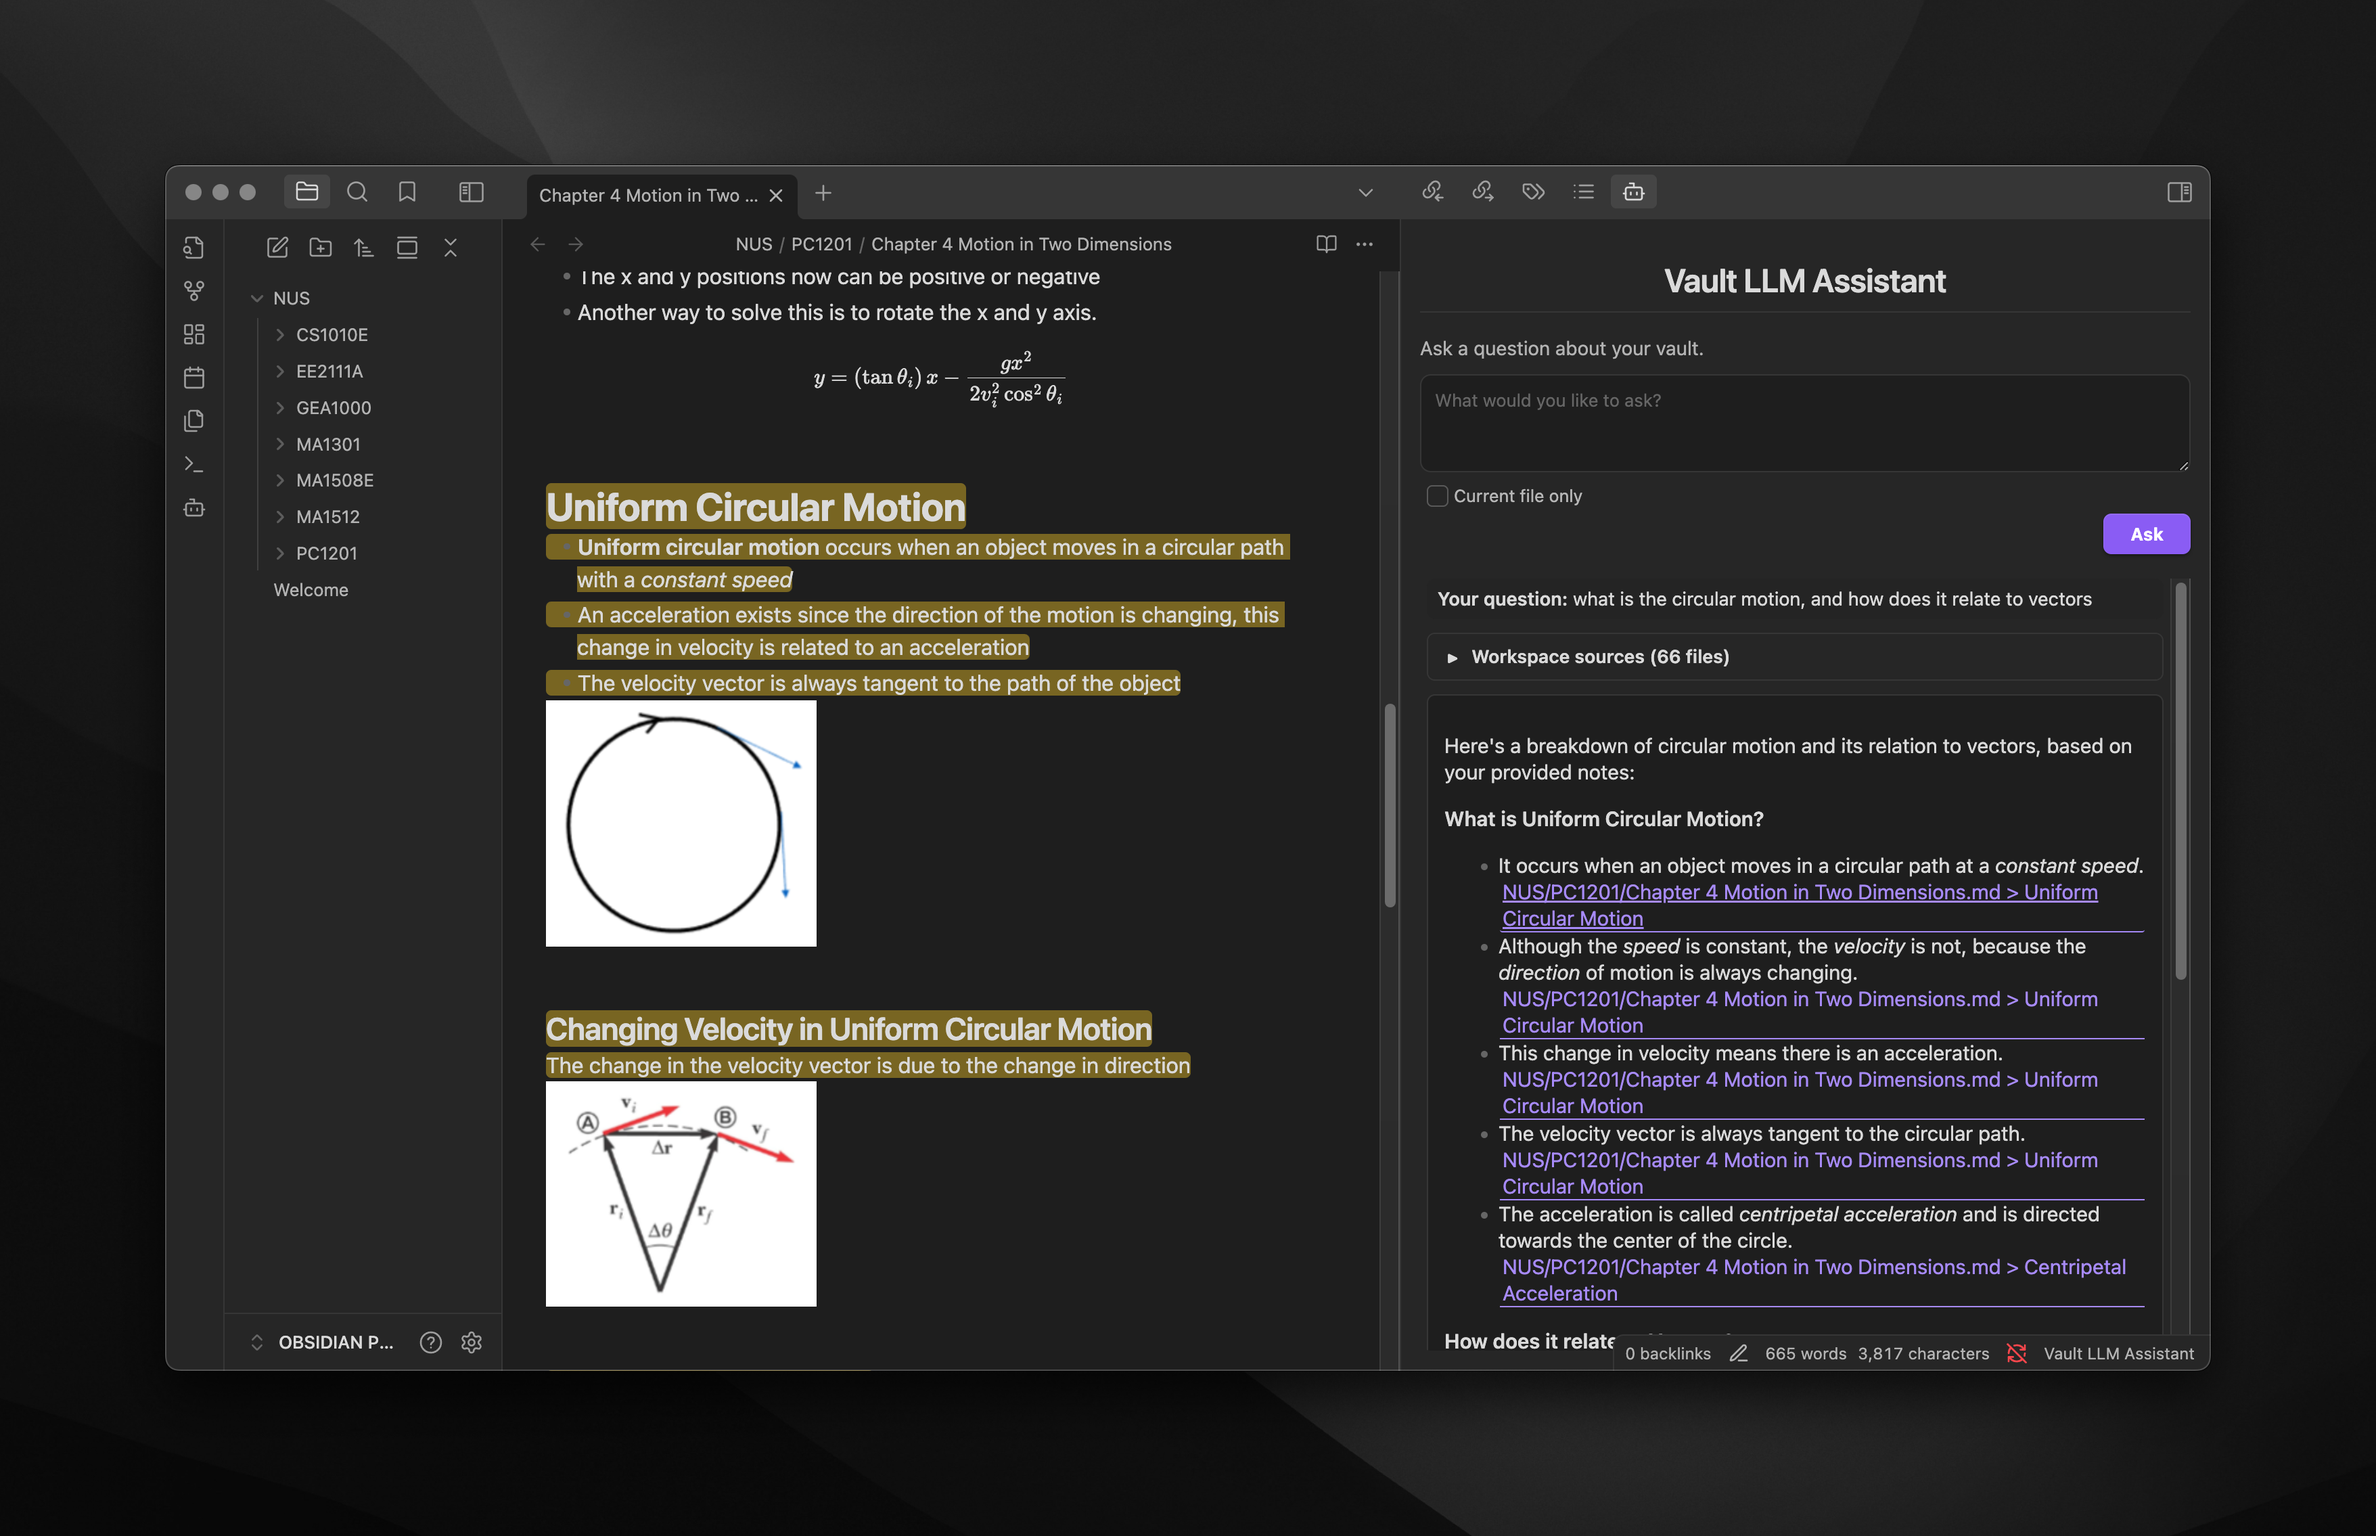
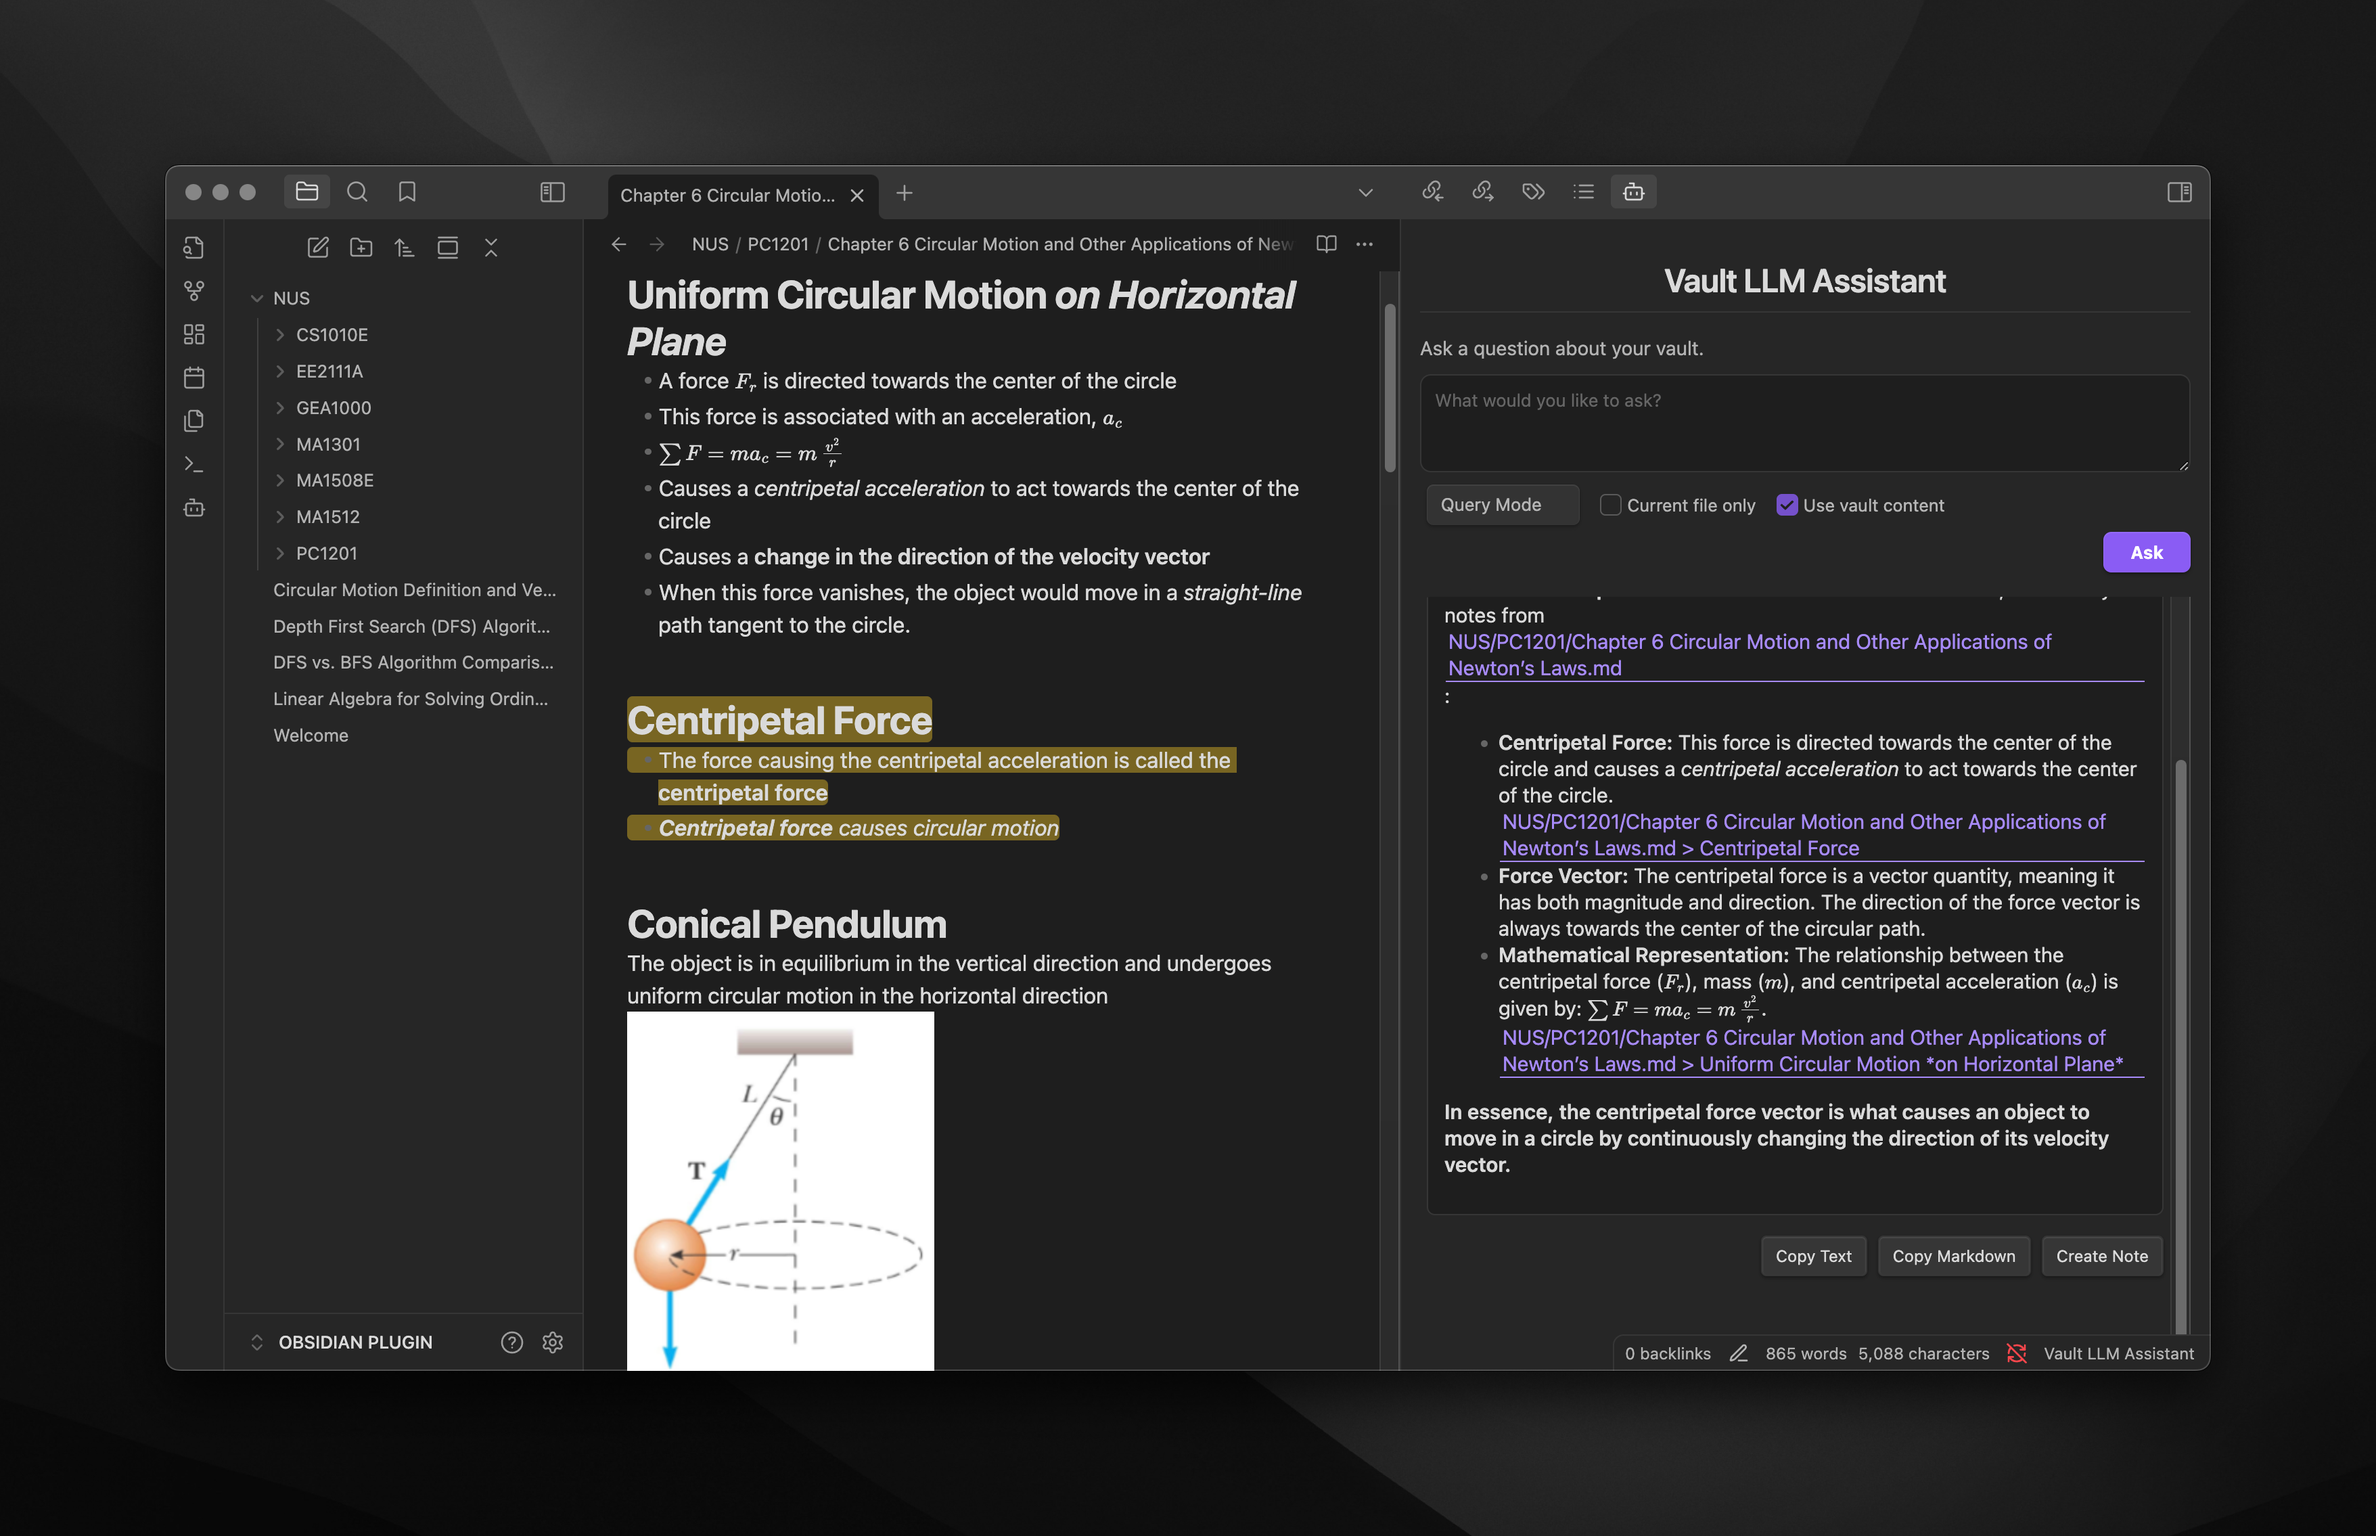
Update Vault LLM Assistant to version 1.0.3, enhancing link formatting in the main.ts file for better visibility and clarity. Removed outdated screenshot and added a new one in README.md. Updated manifest and package files to reflect the new version. Added version mapping in versions.json.

diff --git a/main.ts b/main.ts
@@ -1479,7 +1479,7 @@ class VaultLLMAssistantView extends View {
 			// Fix common malformed link patterns
 			let updatedContent = content;
 
-			// Fix [[path]] format
+			// Fix [[path]] format - show the full path in the link text
 			updatedContent = updatedContent.replace(
 				/\[\[([^\]]+)\]\]/g,
 				(match, path) => {
@@ -1487,7 +1487,7 @@ class VaultLLMAssistantView extends View {
 				}
 			);
 
-			// Fix links separated by commas
+			// Fix links separated by commas - preserve the text
 			updatedContent = updatedContent.replace(
 				/\[([^\]]+)\](?:,\s*|\s*,\s*)/g,
 				(match, path) => {
@@ -1559,6 +1559,11 @@ class VaultLLMAssistantView extends View {
 					// Ensure the link is properly styled and has the correct href
 					link.classList.add("vault-llm-link");
 					link.setAttribute("href", fullPath);
+
+					// Make sure the link text is visible and matches the path
+					if (!link.textContent || link.textContent === "-") {
+						link.textContent = filePath;
+					}
 				}
 			});
 	}

diff --git a/README.md b/README.md
@@ -4,6 +4,8 @@
 Query your Obsidian vault using AI, get contextual answers with proper citations, and create new notes on specific topics.
 </div>
 
+<br />
+
 <div align="center">
   <a href="https://github.com/brianstm/obsidian-vault-llm-assistant/releases">
     <img src="https://img.shields.io/github/v/release/brianstm/obsidian-vault-llm-assistant?style=for-the-badge&sort=semver&label=LATEST&color=6874e8" alt="Latest release" />
@@ -25,9 +27,10 @@ Query your Obsidian vault using AI, get contextual answers with proper citations
 
 ## Screenshots
 
-![Ask interface - first view](images/ask_1.png)
-![Ask interface - second view](images/ask_2.png)
+![Query interface](images/ask_1.png)
 ![Generated notes view](images/generated_notes.png)
+
+![Create interface](images/create_1.png)
 
 ## Installation
 
